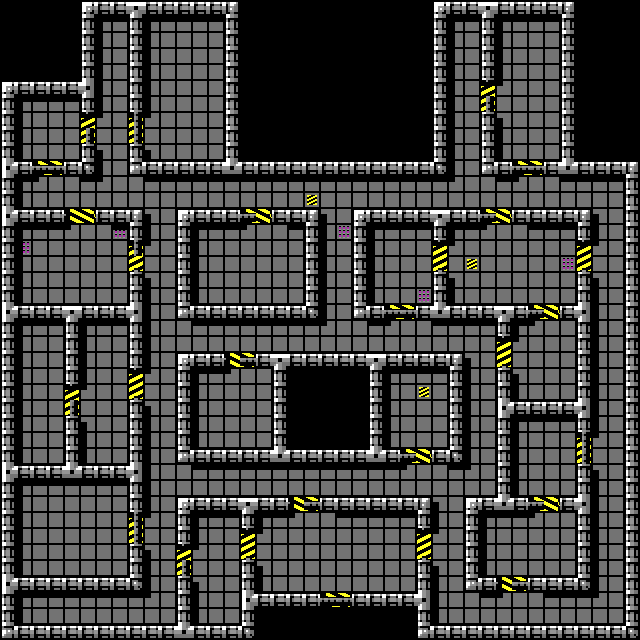
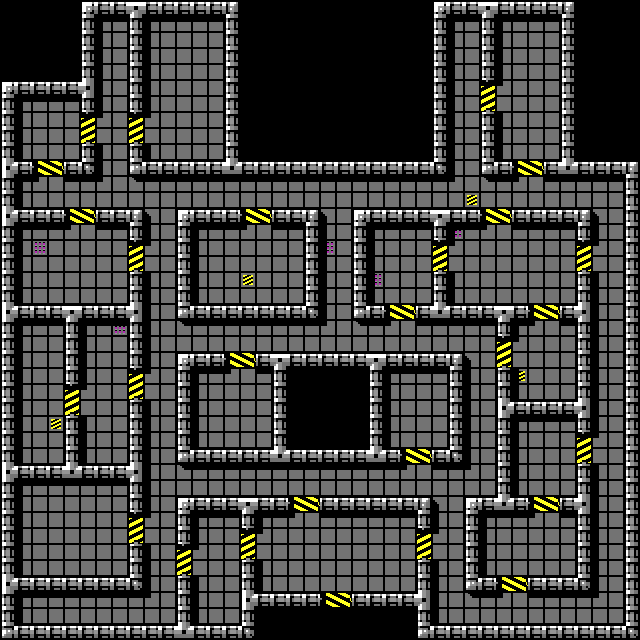
Corner shadows.

diff --git a/TestSupportLib/TestSupportLib/TestTileMapGenerator.cpp b/TestSupportLib/TestSupportLib/TestTileMapGenerator.cpp
@@ -76,98 +76,79 @@ void TestTileMapGenerator2x2Generate(void)
 		pcSpaceColour = pTileMapGenerator->AddColourSource(0, 0, 0);
 		pcDoorColour = pTileMapGenerator->AddColourSource(71, 71, 71);
 
-		pTileMapGenerator->AddCelType(		 'W', SCCT_Wall);
-		pTileMapGenerator->AddNegativeCelType('w', SCCT_Wall);
-		pTileMapGenerator->AddCelType(		 'C', SCCT_Wall, SCCT_Door);
-		pTileMapGenerator->AddNegativeCelType('c', SCCT_Wall, SCCT_Door);
+		pTileMapGenerator->AddCelType(			'W', SCCT_Wall);
+		pTileMapGenerator->AddCelType(			'C', SCCT_Wall, SCCT_Door);
+		pTileMapGenerator->AddNegativeCelType(	'c', SCCT_Wall, SCCT_Door);
+		pTileMapGenerator->AddCelType(			'D', SCCT_Door);
+		pTileMapGenerator->AddCelType(			'F', SCCT_Floor);
 
 		pTileMapGenerator->AddPattern("FloorPlan", SCCT_Space, "Single",		" . . . \n"
-																			" . B . \n"
-																			" . . . \n");
+																				" . B . \n"
+																				" . . . \n");
 
 		pTileMapGenerator->AddPattern("FloorPlan", SCCT_Floor, "Single",		" . . . \n"
-																			" . B . \n"
-																			" . . . \n");
+																				" . B . \n"
+																				" . . . \n");
 
-		pTileMapGenerator->AddPattern("FloorPlan", SCCT_Wall, "Single",		" . c . \n"
-																			" c B c \n"
-																			" . c . \n");
+		pTileMapGenerator->AddPattern("FloorPlan", SCCT_Wall, "Single",			" . c . \n"
+																				" c B c \n"
+																				" . c . \n");
 
-		pTileMapGenerator->AddPattern("FloorPlan", SCCT_Wall, "UpDown",		" . C . \n"
-																			" c B c \n"
-																			" . C . \n");
+		pTileMapGenerator->AddPattern("FloorPlan", SCCT_Wall, "UpDown",			" . C . \n"
+																				" c B c \n"
+																				" . C . \n");
 
-		pTileMapGenerator->AddPattern("FloorPlan", SCCT_Wall, "LeftRight",	" . c . \n"
-																			" C B C \n"
-																			" . c . \n");
+		pTileMapGenerator->AddPattern("FloorPlan", SCCT_Wall, "LeftRight",		" . c . \n"
+																				" C B C \n"
+																				" . c . \n");
 
 		pTileMapGenerator->AddPattern("FloorPlan", SCCT_Wall, "UpRight",		" . C . \n"
-																			" c B C \n"
-																			" . c . \n");
+																				" c B C \n"
+																				" . c . \n");
 
-		pTileMapGenerator->AddPattern("FloorPlan", SCCT_Wall, "DownRight",	" . c . \n"
-																			" c B C \n"
-																			" . C . \n");
+		pTileMapGenerator->AddPattern("FloorPlan", SCCT_Wall, "DownRight",		" . c . \n"
+																				" c B C \n"
+																				" . C . \n");
 
-		pTileMapGenerator->AddPattern("FloorPlan", SCCT_Wall, "DownLeft",	" . c . \n"
-																			" C B c \n"
-																			" . C . \n");
+		pTileMapGenerator->AddPattern("FloorPlan", SCCT_Wall, "DownLeft",		" . c . \n"
+																				" C B c \n"
+																				" . C . \n");
 
-		pTileMapGenerator->AddPattern("FloorPlan", SCCT_Wall, "UpLeft",		" . C . \n"
-																			" C B c \n"
-																			" . c . \n");
+		pTileMapGenerator->AddPattern("FloorPlan", SCCT_Wall, "UpLeft",			" . C . \n"
+																				" C B c \n"
+																				" . c . \n");
 
-		pTileMapGenerator->AddPattern("FloorPlan", SCCT_Wall, "LeftRightDown"," . c . \n"
-																			" C B C \n"
-																			" . C . \n");
+		pTileMapGenerator->AddPattern("FloorPlan", SCCT_Wall, "LeftRightDown",	" . c . \n"
+																				" C B C \n"
+																				" . C . \n");
 
-		pTileMapGenerator->AddPattern("FloorPlan", SCCT_Wall, "UpDownLeft",	" . C . \n"
-																			" C B c \n"
-																			" . C . \n");
+		pTileMapGenerator->AddPattern("FloorPlan", SCCT_Wall, "UpDownLeft",		" . C . \n"
+																				" C B c \n"
+																				" . C . \n");
 
 		pTileMapGenerator->AddPattern("FloorPlan", SCCT_Wall, "UpDownRight",	" . C . \n"
-																			" c B C \n"
-																			" . C . \n");
+																				" c B C \n"
+																				" . C . \n");
 
 		pTileMapGenerator->AddPattern("FloorPlan", SCCT_Wall, "LeftRightUp",	" . C . \n"
-																			" C B C \n"
-																			" . c . \n");
+																				" C B C \n"
+																				" . c . \n");
 
-		pTileMapGenerator->AddPattern("FloorPlan", SCCT_Door, "DoorDown",	" . W . \n"
-																			" . B . \n"
-																			" . P . \n");
+		pTileMapGenerator->AddPattern("FloorPlan", SCCT_Door, "DoorDown",		" . W . \n"
+																				" . B . \n"
+																				" . D . \n");
 
-		pTileMapGenerator->AddPattern("FloorPlan", SCCT_Door, "DoorUp",		" . P . \n"
-																			" . B . \n"
-																			" . W . \n");
+		pTileMapGenerator->AddPattern("FloorPlan", SCCT_Door, "DoorUp",			" . D . \n"
+																				" . B . \n"
+																				" . W . \n");
 
-		pTileMapGenerator->AddPattern("FloorPlan", SCCT_Door, "DoorLeft",	" . . . \n"
-																			" W B P \n"
-																			" . . . \n");
+		pTileMapGenerator->AddPattern("FloorPlan", SCCT_Door, "DoorLeft",		" . . . \n"
+																				" W B D \n"
+																				" . . . \n");
 
-		pTileMapGenerator->AddPattern("FloorPlan", SCCT_Door, "DoorRight",	" . . . \n"
-																			" P B W \n"
-																			" . . . \n");
-
-		pTileMapGenerator->AddPattern("FloorPlan", SCCT_Shadow, "ShadowLeft"," W w . \n"
-																			" W B . \n"
-																			" . . . \n");
-
-		pTileMapGenerator->AddPattern("FloorPlan", SCCT_Shadow,"ShadowSingle"," W w . \n"
-																			" w B . \n"
-																			" . . . \n");
-
-		pTileMapGenerator->AddPattern("FloorPlan", SCCT_Shadow,"ShadowUpLeft"," W W . \n"
-																			" W B . \n"
-																			" . . . \n");
-
-		pTileMapGenerator->AddPattern("FloorPlan", SCCT_Shadow,"ShadowUp",	" W W . \n"
-																			" w B . \n"
-																			" . . . \n");
-
-		pTileMapGenerator->AddPattern("FloorPlan", SCCT_Shadow,"ShadowDown",	" w w . \n"
-																			" W B . \n"
-																			" . . . \n");
+		pTileMapGenerator->AddPattern("FloorPlan", SCCT_Door, "DoorRight",		" . . . \n"
+																				" D B W \n"
+																				" . . . \n");
 
 		pacBackgroundCels = TestReadCels("SpaceCrusade", "Tiles.png", 10, 3);
 
@@ -188,10 +169,6 @@ void TestTileMapGenerator2x2Generate(void)
 		pTileMapGenerator->AddTileBrush(pacBackgroundCels, 15, SCCT_Door,   "DoorDown");
 		pTileMapGenerator->AddTileBrush(pacBackgroundCels, 16, SCCT_Door,   "DoorLeft");
 		pTileMapGenerator->AddTileBrush(pacBackgroundCels, 17, SCCT_Door,   "DoorRight");
-		pTileMapGenerator->AddTileBrush(pacBackgroundCels, 18, SCCT_Door,   "DoorUp");
-		pTileMapGenerator->AddTileBrush(pacBackgroundCels, 19, SCCT_Door,   "DoorDown");
-		pTileMapGenerator->AddTileBrush(pacBackgroundCels, 20, SCCT_Door,   "DoorLeft");
-		pTileMapGenerator->AddTileBrush(pacBackgroundCels, 21, SCCT_Door,   "DoorRight");
 		pTileMapGenerator->AddTileBrush(pacBackgroundCels, 22, SCCT_Shadow, "ShadowLeft");
 		pTileMapGenerator->AddTileBrush(pacBackgroundCels, 23, SCCT_Shadow, "ShadowSingle");
 		pTileMapGenerator->AddTileBrush(pacBackgroundCels, 24, SCCT_Shadow, "ShadowUpLeft");
@@ -302,105 +279,108 @@ void TestTileMapGenerator40x40Generate(void)
 		//Blocks must be rectangular with each row ending with a newline.  Spaces are removed before processing.
 
 		// B: the block being placed.
-		// P: required from the same CelType
 		// .: any block 
-		// !: any block other than the same CelType
 		// any other letter or number: defined as another cell type.
 		//  e.g. W ->  SCCT_Wall
 		//  e.g. w -> !SCCT_Wall
 
-		pTileMapGenerator->AddCelType(		 'W', SCCT_Wall);
-		pTileMapGenerator->AddNegativeCelType('w', SCCT_Wall);
-		pTileMapGenerator->AddCelType(		 'C', SCCT_Wall, SCCT_Door);
-		pTileMapGenerator->AddNegativeCelType('c', SCCT_Wall, SCCT_Door);
+		pTileMapGenerator->AddCelType(			'W', SCCT_Wall);
+		pTileMapGenerator->AddNegativeCelType(	'w', SCCT_Wall);
+		pTileMapGenerator->AddCelType(			'C', SCCT_Wall, SCCT_Door);
+		pTileMapGenerator->AddNegativeCelType(	'c', SCCT_Wall, SCCT_Door);
+		pTileMapGenerator->AddCelType(			'D', SCCT_Door);
 
-		pTileMapGenerator->AddPattern("FloorPlan", SCCT_Space, "Single",	" . . . \n"
-																			" . B . \n"
-																			" . . . \n");
+		pTileMapGenerator->AddPattern("FloorPlan", SCCT_Space, "Single",		" . . . \n"
+																				" . B . \n"
+																				" . . . \n");
 
-		pTileMapGenerator->AddPattern("FloorPlan", SCCT_Floor, "Single",	" . . . \n"
-																			" . B . \n"
-																			" . . . \n");
+		pTileMapGenerator->AddPattern("FloorPlan", SCCT_Floor, "Single",		" . . . \n"
+																				" . B . \n"
+																				" . . . \n");
 
-		pTileMapGenerator->AddPattern("FloorPlan", SCCT_Wall, "Single",		" . c . \n"
-																			" c B c \n"
-																			" . c . \n");
+		pTileMapGenerator->AddPattern("FloorPlan", SCCT_Wall, "Single",			" . c . \n"
+																				" c B c \n"
+																				" . c . \n");
 
-		pTileMapGenerator->AddPattern("FloorPlan", SCCT_Wall, "UpDown",		" . C . \n"
-																			" c B c \n"
-																			" . C . \n");
+		pTileMapGenerator->AddPattern("FloorPlan", SCCT_Wall, "UpDown",			" . C . \n"
+																				" c B c \n"
+																				" . C . \n");
 
-		pTileMapGenerator->AddPattern("FloorPlan", SCCT_Wall, "LeftRight",	" . c . \n"
-																			" C B C \n"
-																			" . c . \n");
+		pTileMapGenerator->AddPattern("FloorPlan", SCCT_Wall, "LeftRight",		" . c . \n"
+																				" C B C \n"
+																				" . c . \n");
 
-		pTileMapGenerator->AddPattern("FloorPlan", SCCT_Wall, "UpRight",	" . C . \n"
-																			" c B C \n"
-																			" . c . \n");
+		pTileMapGenerator->AddPattern("FloorPlan", SCCT_Wall, "UpRight",		" . C . \n"
+																				" c B C \n"
+																				" . c . \n");
 
-		pTileMapGenerator->AddPattern("FloorPlan", SCCT_Wall, "DownRight",	" . c . \n"
-																			" c B C \n"
-																			" . C . \n");
+		pTileMapGenerator->AddPattern("FloorPlan", SCCT_Wall, "DownRight",		" . c . \n"
+																				" c B C \n"
+																				" . C . \n");
 
-		pTileMapGenerator->AddPattern("FloorPlan", SCCT_Wall, "DownLeft",	" . c . \n"
-																			" C B c \n"
-																			" . C . \n");
+		pTileMapGenerator->AddPattern("FloorPlan", SCCT_Wall, "DownLeft",		" . c . \n"
+																				" C B c \n"
+																				" . C . \n");
 
-		pTileMapGenerator->AddPattern("FloorPlan", SCCT_Wall, "UpLeft",		" . C . \n"
-																			" C B c \n"
-																			" . c . \n");
+		pTileMapGenerator->AddPattern("FloorPlan", SCCT_Wall, "UpLeft",			" . C . \n"
+																				" C B c \n"
+																				" . c . \n");
 
-		pTileMapGenerator->AddPattern("FloorPlan", SCCT_Wall, "LeftRightDown"," . c . \n"
-																			" C B C \n"
-																			" . C . \n");
+		pTileMapGenerator->AddPattern("FloorPlan", SCCT_Wall, "LeftRightDown",	" . c . \n"
+																				" C B C \n"
+																				" . C . \n");
 
-		pTileMapGenerator->AddPattern("FloorPlan", SCCT_Wall, "UpDownLeft",	" . C . \n"
-																			" C B c \n"
-																			" . C . \n");
+		pTileMapGenerator->AddPattern("FloorPlan", SCCT_Wall, "UpDownLeft",		" . C . \n"
+																				" C B c \n"
+																				" . C . \n");
 
-		pTileMapGenerator->AddPattern("FloorPlan", SCCT_Wall, "UpDownRight"," . C . \n"
-																			" c B C \n"
-																			" . C . \n");
+		pTileMapGenerator->AddPattern("FloorPlan", SCCT_Wall, "UpDownRight",	" . C . \n"
+																				" c B C \n"
+																				" . C . \n");
 
-		pTileMapGenerator->AddPattern("FloorPlan", SCCT_Wall, "LeftRightUp"," . C . \n"
-																			" C B C \n"
-																			" . c . \n");
+		pTileMapGenerator->AddPattern("FloorPlan", SCCT_Wall, "LeftRightUp",	" . C . \n"
+																				" C B C \n"
+																				" . c . \n");
 
-		pTileMapGenerator->AddPattern("FloorPlan", SCCT_Door, "DoorDown",	" . W . \n"
-																			" . B . \n"
-																			" . P . \n");
+		pTileMapGenerator->AddPattern("FloorPlan", SCCT_Door, "DoorDown",		" . W . \n"
+																				" . B . \n"
+																				" . D . \n");
 
-		pTileMapGenerator->AddPattern("FloorPlan", SCCT_Door, "DoorUp",		" . P . \n"
-																			" . B . \n"
-																			" . W . \n");
+		pTileMapGenerator->AddPattern("FloorPlan", SCCT_Door, "DoorUp",			" . D . \n"
+																				" . B . \n"
+																				" . W . \n");
 
-		pTileMapGenerator->AddPattern("FloorPlan", SCCT_Door, "DoorLeft",	" . . . \n"
-																			" W B P \n"
-																			" . . . \n");
+		pTileMapGenerator->AddPattern("FloorPlan", SCCT_Door, "DoorLeft",		" . . . \n"
+																				" W B D \n"
+																				" . . . \n");
 
-		pTileMapGenerator->AddPattern("FloorPlan", SCCT_Door, "DoorRight",	" . . . \n"
-																			" P B W \n"
-																			" . . . \n");
+		pTileMapGenerator->AddPattern("FloorPlan", SCCT_Door, "DoorRight",		" . . . \n"
+																				" D B W \n"
+																				" . . . \n");
 
-		pTileMapGenerator->AddPattern("FloorPlan", SCCT_Shadow, "ShadowLeft"," W w . \n"
-																			 " W B . \n"
-																			 " . . . \n");
+		pTileMapGenerator->AddPattern("FloorPlan", SCCT_Shadow, "ShadowLeft",	" C w . \n"
+																				" W B . \n"
+																				" . . . \n");
 
-		pTileMapGenerator->AddPattern("FloorPlan", SCCT_Shadow,"ShadowSingle"," W w . \n"
-																			  " w B . \n"
-																			  " . . . \n");
+		pTileMapGenerator->AddPattern("FloorPlan", SCCT_Shadow, "ShadowUp",		" C W . \n"
+																				" w B . \n"
+																				" . . . \n");
 
-		pTileMapGenerator->AddPattern("FloorPlan", SCCT_Shadow,"ShadowUpLeft"," W W . \n"
-																			  " W B . \n"
-																			  " . . . \n");
+		pTileMapGenerator->AddPattern("FloorPlan", SCCT_Shadow, "ShadowSingle",	" W w . \n"
+																				" w B . \n"
+																				" . . . \n");
 
-		pTileMapGenerator->AddPattern("FloorPlan", SCCT_Shadow,"ShadowUp",	 " W W . \n"
-																			 " w B . \n"
-																			 " . . . \n");
+		pTileMapGenerator->AddPattern("FloorPlan", SCCT_Shadow, "ShadowUpLeft",	" W W . \n"
+																				" W B . \n"
+																				" . . . \n");
 
-		pTileMapGenerator->AddPattern("FloorPlan", SCCT_Shadow,"ShadowDown", " w w . \n"
-																			 " W B . \n"
-																			 " . . . \n");
+		pTileMapGenerator->AddPattern("FloorPlan", SCCT_Shadow,	"ShadowDown",	" w w . \n"
+																				" W B . \n"
+																				" . . . \n");
+
+		pTileMapGenerator->AddPattern("FloorPlan", SCCT_Shadow,	"ShadowDiag",	" w W . \n"
+																				" w B . \n"
+																				" . . . \n");
 
 		pacBackgroundCels = TestReadCels("SpaceCrusade", "Tiles.png", 10, 3);
 
@@ -423,15 +403,12 @@ void TestTileMapGenerator40x40Generate(void)
 		pTileMapGenerator->AddTileBrush(pacBackgroundCels, 15, SCCT_Door,   "DoorDown");
 		pTileMapGenerator->AddTileBrush(pacBackgroundCels, 16, SCCT_Door,   "DoorLeft");
 		pTileMapGenerator->AddTileBrush(pacBackgroundCels, 17, SCCT_Door,   "DoorRight");
-		pTileMapGenerator->AddTileBrush(pacBackgroundCels, 18, SCCT_Door,   "DoorUp");
-		pTileMapGenerator->AddTileBrush(pacBackgroundCels, 19, SCCT_Door,   "DoorDown");
-		pTileMapGenerator->AddTileBrush(pacBackgroundCels, 20, SCCT_Door,   "DoorLeft");
-		pTileMapGenerator->AddTileBrush(pacBackgroundCels, 21, SCCT_Door,   "DoorRight");
 		pTileMapGenerator->AddTileBrush(pacBackgroundCels, 22, SCCT_Shadow, "ShadowLeft");
 		pTileMapGenerator->AddTileBrush(pacBackgroundCels, 23, SCCT_Shadow, "ShadowSingle");
 		pTileMapGenerator->AddTileBrush(pacBackgroundCels, 24, SCCT_Shadow, "ShadowUpLeft");
 		pTileMapGenerator->AddTileBrush(pacBackgroundCels, 25, SCCT_Shadow, "ShadowUp");
 		pTileMapGenerator->AddTileBrush(pacBackgroundCels, 27, SCCT_Shadow, "ShadowDown");
+		pTileMapGenerator->AddTileBrush(pacBackgroundCels, 28, SCCT_Shadow, "ShadowDiag");
 
 		pTileMapGenerator->AddTileGenerator("FloorPlan", SCML_Floor,	 SCCT_Space,  pcSpaceColour);
 		pTileMapGenerator->AddTileGenerator("FloorPlan", SCML_Floor,	 SCCT_Wall,	 pcWallColour);
